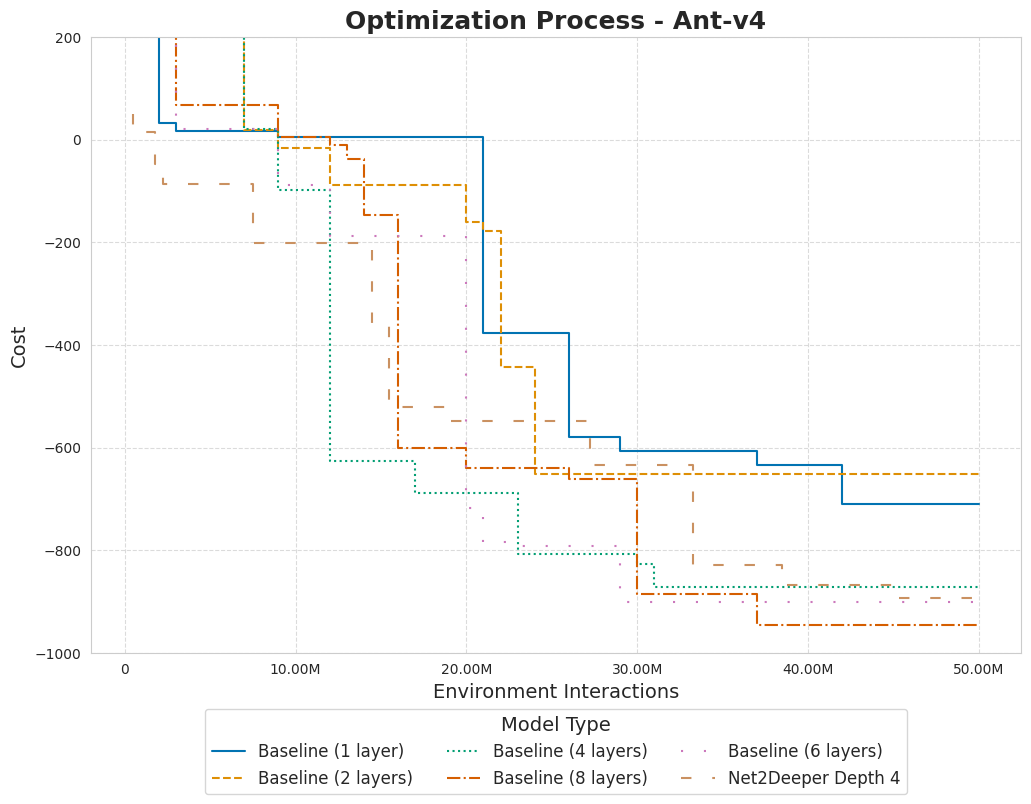
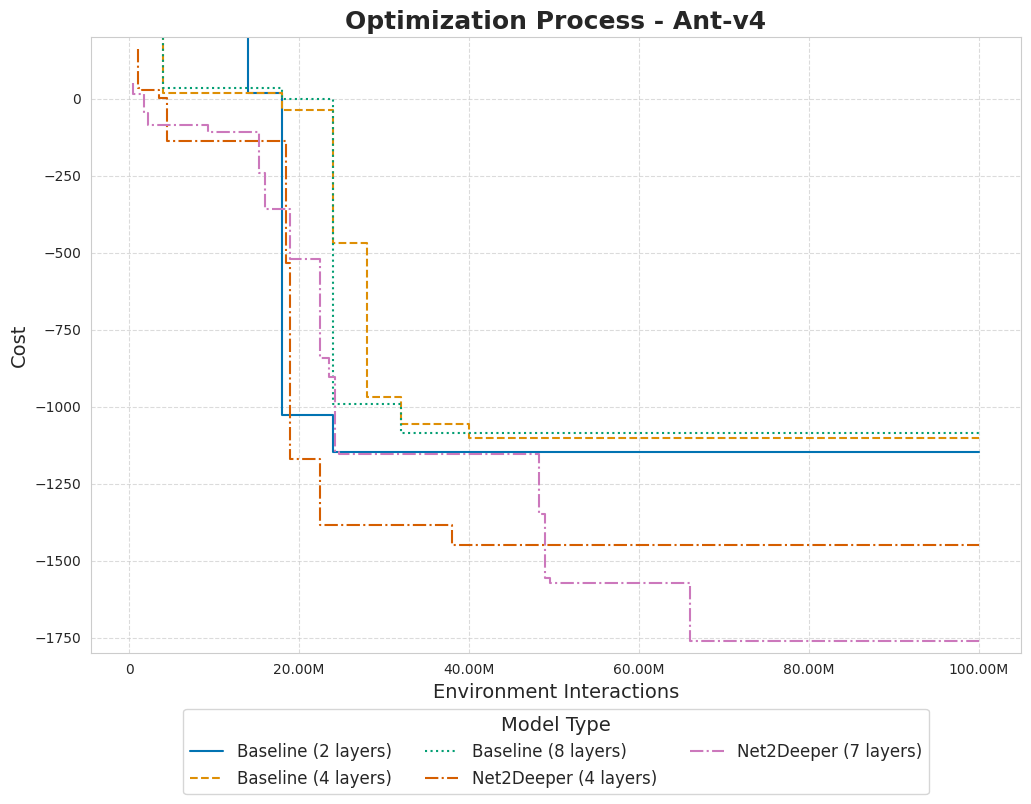
Updaste plots

diff --git a/plotting/ant/net2deeper/incumbent_training_process.py b/plotting/ant/net2deeper/incumbent_training_process.py
@@ -1,0 +1,125 @@
+import pandas as pd
+import seaborn as sns
+from utils.plotting import training_process_style, get_logtable, set_rc_params, convert_dataframe_gym
+import matplotlib.pyplot as plt
+from typing import Dict
+
+set_rc_params()
+
+
+def get_data(database_name: str, baseline_experiment_ids: Dict[int, int], appraoch_experiment_ids: Dict[int, int]) -> pd.DataFrame:
+    all_baseline_data = dict()
+    baseline_training_process_data = get_logtable(database_name=database_name, table_name="ant_bb_net2deeper_baseline", logtable_name="training_process")
+    for nettwork_depth, baseline_experiment_id in baseline_experiment_ids.items():
+        baseline_smac_callbacks = get_logtable(database_name=database_name, table_name="ant_bb_net2deeper_baseline", logtable_name="smac_callbacks")
+        baseline_smac_callbacks = baseline_smac_callbacks[baseline_smac_callbacks["experiment_id"] == baseline_experiment_id]
+        incumbent_trial_number = baseline_smac_callbacks[baseline_smac_callbacks["cost"] == baseline_smac_callbacks["cost"].min()]["trial_number"].iloc[0] - 1
+
+        training_process_data = baseline_training_process_data[
+            (baseline_training_process_data["trial_number"] == incumbent_trial_number) & (baseline_training_process_data["experiment_id"] == baseline_experiment_id)
+        ]
+        training_process_data = training_process_data[["timestep", "worker_id", "all_costs"]]
+        training_process_data = convert_dataframe_gym(training_process_data)
+        all_baseline_data[nettwork_depth] = training_process_data
+
+    all_appraoch_data = dict()
+    appraoch_training_process_data = get_logtable(database_name=database_name, table_name="ant_net2deeper", logtable_name="training_process")
+    for appraoch_name, approach_experiment_id in appraoch_experiment_ids.items():
+        appraoch_smac_callback_data = get_logtable(database_name=database_name, table_name="ant_net2deeper", logtable_name="smac_callbacks")
+        appraoch_smac_callback_data = appraoch_smac_callback_data[appraoch_smac_callback_data["experiment_id"] == approach_experiment_id]
+        incumbent_hyperparameter_str_identifier = appraoch_smac_callback_data[appraoch_smac_callback_data["cost"] == appraoch_smac_callback_data["cost"].min()]["hyperparameter_str_identifier"].iloc[0]
+        trial_numbers = appraoch_smac_callback_data[appraoch_smac_callback_data["hyperparameter_str_identifier"] == incumbent_hyperparameter_str_identifier]["trial_number"] - 1.0
+
+        experiment_training_process_data = appraoch_training_process_data[appraoch_training_process_data["experiment_id"] == approach_experiment_id]
+        experiment_training_process_data = {trial_number: experiment_training_process_data[appraoch_training_process_data["trial_number"] == trial_number] for trial_number in trial_numbers}
+
+        max_timestep = experiment_training_process_data[trial_numbers.max()]["timestep"].max()
+        for budget, (trial_number, training_process_data) in enumerate(sorted(experiment_training_process_data.items())):
+            training_process_data["timestep"] += max_timestep * budget
+
+        approach_data = pd.concat(experiment_training_process_data.values(), ignore_index=True)
+        approach_data = approach_data[["timestep", "worker_id", "all_costs"]]
+        approach_data = convert_dataframe_gym(approach_data)
+        all_appraoch_data[appraoch_name] = approach_data
+
+    return all_baseline_data, all_appraoch_data
+
+
+def plot_incumbent_interactions_4_layers():
+    database_name = "fehring_growing_nn_new_seeded"
+    baseline_experiment_ids = {
+        "Baseline (4 layers)": 19,
+    }
+
+    appraoch_experiment_ids = {
+        "Net2Deeper (4 layers)": 9,
+    }
+
+    baseline_data, appraoch_data = get_data(database_name, baseline_experiment_ids, appraoch_experiment_ids)
+
+    training_process_style()
+    line_styles = ["-", "--", ":", "-.", (0, (1, 10)), (0, (5, 10)), (0, (3, 10, 1, 10)), (0, (1, 1)), (0, (5, 1)), (0, (3, 1, 1, 1))]
+
+    line_number = 0
+    for approach_name, data in baseline_data.items():
+        # The environment interactions column appears to be buggy
+        sns.lineplot(x="timestep", y="episode_reward", data=data, label=f"{approach_name}", linestyle=line_styles[line_number])
+        line_number += 1
+
+    for approach_name, data in appraoch_data.items():
+        sns.lineplot(x="timestep", y="episode_reward", data=data, label=f"{approach_name}", linestyle=line_styles[line_number])
+        line_number += 1
+
+    for timestep in range(500000, 2000000, 500000):
+        plt.axvline(x=timestep, color="black", linestyle="--", alpha=0.5)
+
+    plt.title("Optimization Process - Ant-v4", fontsize=18, fontweight="bold")
+    plt.xlabel("Environment Interactions", fontsize=14)
+    plt.ylabel("Cost", fontsize=14)
+
+    plt.legend(title="Model Type", fontsize=12, title_fontsize=14, loc="center", bbox_to_anchor=(0.5, -0.16), ncol=3)
+    plt.grid(True, linestyle="--", alpha=0.7)
+
+    plt.savefig("plotting/ant/net2deeper/incumbent_training_process_4_layers", bbox_inches="tight")
+
+
+def plot_incumbent_interactions_8_layers():
+    database_name = "fehring_growing_nn_new_seeded"
+    baseline_experiment_ids = {
+        "Baseline (8 layers)": 20,
+    }
+
+    appraoch_experiment_ids = {
+        "Net2Deeper (7 layers)": 10,
+    }
+
+    baseline_data, appraoch_data = get_data(database_name, baseline_experiment_ids, appraoch_experiment_ids)
+
+    training_process_style()
+    line_styles = ["-", "--", ":", "-.", (0, (1, 10)), (0, (5, 10)), (0, (3, 10, 1, 10)), (0, (1, 1)), (0, (5, 1)), (0, (3, 1, 1, 1))]
+
+    line_number = 0
+    for approach_name, data in baseline_data.items():
+        # The environment interactions column appears to be buggy
+        sns.lineplot(x="timestep", y="episode_reward", data=data, label=f"{approach_name}", linestyle=line_styles[line_number])
+        line_number += 1
+
+    for approach_name, data in appraoch_data.items():
+        sns.lineplot(x="timestep", y="episode_reward", data=data, label=f"{approach_name}", linestyle=line_styles[line_number])
+        line_number += 1
+
+    for timestep in range(250000, 2000000, 250000):
+        plt.axvline(x=timestep, color="black", linestyle="--", alpha=0.5)
+
+    plt.title("Optimization Process - Ant-v4", fontsize=18, fontweight="bold")
+    plt.xlabel("Environment Interactions", fontsize=14)
+    plt.ylabel("Cost", fontsize=14)
+
+    plt.legend(title="Model Type", fontsize=12, title_fontsize=14, loc="center", bbox_to_anchor=(0.5, -0.16), ncol=3)
+    plt.grid(True, linestyle="--", alpha=0.7)
+
+    plt.savefig("plotting/ant/net2deeper/incumbent_training_process_7_layers", bbox_inches="tight")
+
+
+plot_incumbent_interactions_4_layers()
+plot_incumbent_interactions_8_layers()

diff --git a/plotting/minihack/net2wider/incumbent_training_process/incumbent_training_process.py b/plotting/minihack/net2wider/incumbent_training_process/incumbent_training_process.py
@@ -1,4 +1,4 @@
-from utils.plotting import get_logtable, set_rc_params, convert_dataframe
+from utils.plotting import get_logtable, set_rc_params, convert_rewards_per_episode_to_means
 from matplotlib import pyplot as plt
 import pandas as pd
 import seaborn as sns
@@ -97,11 +97,11 @@ def get_data(database_name: str, experiment_ids: List[int]):
     net2wider_width_4_training_process_concat_dataframe = net2wider_width_4_training_process_concat_dataframe[["timestep", "worker_id", "rewards_per_episode"]]
     net2wider_width_2_training_process_concat_dataframe = net2wider_width_2_training_process_concat_dataframe[["timestep", "worker_id", "rewards_per_episode"]]
 
-    baseline_width_1_training_process_data = convert_dataframe(baseline_width_1_training_process_data)
-    baseline_width_2_training_process_data = convert_dataframe(baseline_width_2_training_process_data)
-    baseline_width_4_training_process_data = convert_dataframe(baseline_width_4_training_process_data)
-    net2wider_width_4_training_process_concat_dataframe = convert_dataframe(net2wider_width_4_training_process_concat_dataframe)
-    net2wider_width_2_training_process_concat_dataframe = convert_dataframe(net2wider_width_2_training_process_concat_dataframe)
+    baseline_width_1_training_process_data = convert_rewards_per_episode_to_means(baseline_width_1_training_process_data)
+    baseline_width_2_training_process_data = convert_rewards_per_episode_to_means(baseline_width_2_training_process_data)
+    baseline_width_4_training_process_data = convert_rewards_per_episode_to_means(baseline_width_4_training_process_data)
+    net2wider_width_4_training_process_concat_dataframe = convert_rewards_per_episode_to_means(net2wider_width_4_training_process_concat_dataframe)
+    net2wider_width_2_training_process_concat_dataframe = convert_rewards_per_episode_to_means(net2wider_width_2_training_process_concat_dataframe)
 
     return (
         baseline_width_1_training_process_data,
@@ -280,9 +280,9 @@ def plot_10x10_monster_width4():
     plt.savefig("plotting/minihack/net2wider/incumbent_training_process/incumbent_training_process_monster_10x10_width4.png", bbox_inches="tight")
 
 
-#plot_10x10_random_full()
-#plot_10x10_random_width2()
-#plot_10x10_random_width4()
+# plot_10x10_random_full()
+# plot_10x10_random_width2()
+# plot_10x10_random_width4()
 plot_10x10_monster_full()
 plot_10x10_monster_width2()
 plot_10x10_monster_width4()

diff --git a/utils/plotting.py b/utils/plotting.py
@@ -5,6 +5,7 @@ import seaborn as sns
 import ast
 import io
 import matplotlib as mpl
+import os
 import numpy as np
 import pandas as pd
 from matplotlib.backends.backend_agg import FigureCanvasAgg
@@ -148,6 +149,48 @@ def convert_dataframe(dataframe: pd.DataFrame) -> pd.DataFrame:
     df_combined = df_combined.set_index(["timestep", "worker_id"])
 
     df_combined.drop("rewards_per_episode", axis=1, inplace=True)
+
+    df_combined = pd.DataFrame(df_combined.stack())
+    df_combined.reset_index(inplace=True)
+    del df_combined["level_2"]
+    df_combined.columns = ["timestep", "worker_id", "episode_reward"]
+
+    df_iqm = df_combined.groupby(["timestep", "worker_id"]).apply(interquartile_mean)
+    df_iqm = df_iqm.reset_index(drop=True)
+    df_iqm.columns = ["timestep", "worker_id", "episode_reward"]
+
+    return df_iqm
+
+
+def convert_dataframe_gym(dataframe: pd.DataFrame) -> pd.DataFrame:
+    """
+    Given a DataFrame with columns 'timestep', 'worker_id', and 'all_costs', convert it to a DataFrame with columns 'timestep', 'worker_id' and 'episode_reward',
+    where the 'episode_reward' column contains the interquartile mean of the rewards_per_episode column.
+    """
+
+    def extract_keys(data_str):
+        # Convert string to dictionary
+
+        data_dict = ast.literal_eval(",".join(data_str[1:-1].split()))
+
+        return pd.Series(data_dict)
+
+        # Apply the function to the column
+
+    def interquartile_mean(group):
+        """Generated using GPT 4o"""
+        q1 = group.quantile(0.25)
+        q3 = group.quantile(0.75)
+        filtered = group[(group >= q1) & (group <= q3)]
+        return filtered.mean()
+
+    df_extracted = dataframe["all_costs"].apply(extract_keys)
+
+    # Combine the original DataFrame with the new one
+    df_combined = pd.concat([dataframe, df_extracted], axis=1)
+    df_combined = df_combined.set_index(["timestep", "worker_id"])
+
+    df_combined.drop("all_costs", axis=1, inplace=True)
 
     df_combined = pd.DataFrame(df_combined.stack())
     df_combined.reset_index(inplace=True)

diff --git a/plotting/minihack/net2deeper/incumbent_training_process/incumbent_training_process.py b/plotting/minihack/net2deeper/incumbent_training_process/incumbent_training_process.py
@@ -2,7 +2,7 @@ from utils.plotting import get_logtable, set_rc_params
 from matplotlib import pyplot as plt
 import pandas as pd
 import seaborn as sns
-from utils.plotting import training_process_style, convert_dataframe
+from utils.plotting import training_process_style, convert_rewards_per_episode_to_means
 from typing import List
 
 set_rc_params()
@@ -95,11 +95,11 @@ def get_data(database_name: str, experiment_ids: List[int]):
     net2deeper_depth_4_training_process_concat_dataframe = net2deeper_depth_4_training_process_concat_dataframe[["timestep", "worker_id", "rewards_per_episode"]]
     net2deeper_depth_2_training_process_concat_dataframe = net2deeper_depth_2_training_process_concat_dataframe[["timestep", "worker_id", "rewards_per_episode"]]
 
-    baseline_depth_1_training_process_data = convert_dataframe(baseline_depth_1_training_process_data)
-    baseline_depth_2_training_process_data = convert_dataframe(baseline_depth_2_training_process_data)
-    baseline_depth_4_training_process_data = convert_dataframe(baseline_depth_4_training_process_data)
-    net2deeper_depth_4_training_process_concat_dataframe = convert_dataframe(net2deeper_depth_4_training_process_concat_dataframe)
-    net2deeper_depth_2_training_process_concat_dataframe = convert_dataframe(net2deeper_depth_2_training_process_concat_dataframe)
+    baseline_depth_1_training_process_data = convert_rewards_per_episode_to_means(baseline_depth_1_training_process_data)
+    baseline_depth_2_training_process_data = convert_rewards_per_episode_to_means(baseline_depth_2_training_process_data)
+    baseline_depth_4_training_process_data = convert_rewards_per_episode_to_means(baseline_depth_4_training_process_data)
+    net2deeper_depth_4_training_process_concat_dataframe = convert_rewards_per_episode_to_means(net2deeper_depth_4_training_process_concat_dataframe)
+    net2deeper_depth_2_training_process_concat_dataframe = convert_rewards_per_episode_to_means(net2deeper_depth_2_training_process_concat_dataframe)
 
     return (
         baseline_depth_1_training_process_data,

diff --git a/plotting/ant/overall_training_process/plot_training_process.py b/plotting/ant/overall_training_process/plot_training_process.py
@@ -48,9 +48,9 @@ def get_data(database_name: str, baseline_experiment_ids: Dict[int, int], apprao
 
 def plot_one_million_interactions():
     database_name = "fehring_growing_nn_new_seeded"
-    baseline_experiment_ids = {"Baseline (1 layer)": 1, "Baseline (2 layers)": 2, "Baseline (4 layers)": 3, "Baseline (8 layers)": 5, "Baseline (6 layers)": 6}
+    baseline_experiment_ids = {"Baseline (2 layers)": 18, "Baseline (4 layers)": 19, "Baseline (8 layers)": 20}
 
-    appraoch_experiment_ids = {"Net2Deeper Depth 4": 1}
+    appraoch_experiment_ids = {"Net2Deeper (4 layers)": 9, "Net2Deeper (7 layers)": 10}
 
     baseline_data, appraoch_data = get_data(database_name, baseline_experiment_ids, appraoch_experiment_ids)
 
@@ -73,7 +73,7 @@ def plot_one_million_interactions():
     plt.legend(title="Model Type", fontsize=12, title_fontsize=14, loc="center", bbox_to_anchor=(0.5, -0.16), ncol=3)
     plt.grid(True, linestyle="--", alpha=0.7)
 
-    plt.ylim(-1000, 200)
+    plt.ylim(-1800, 200)
 
     plt.savefig("plotting/ant/overall_training_process/ant_training_process", bbox_inches="tight")
 
